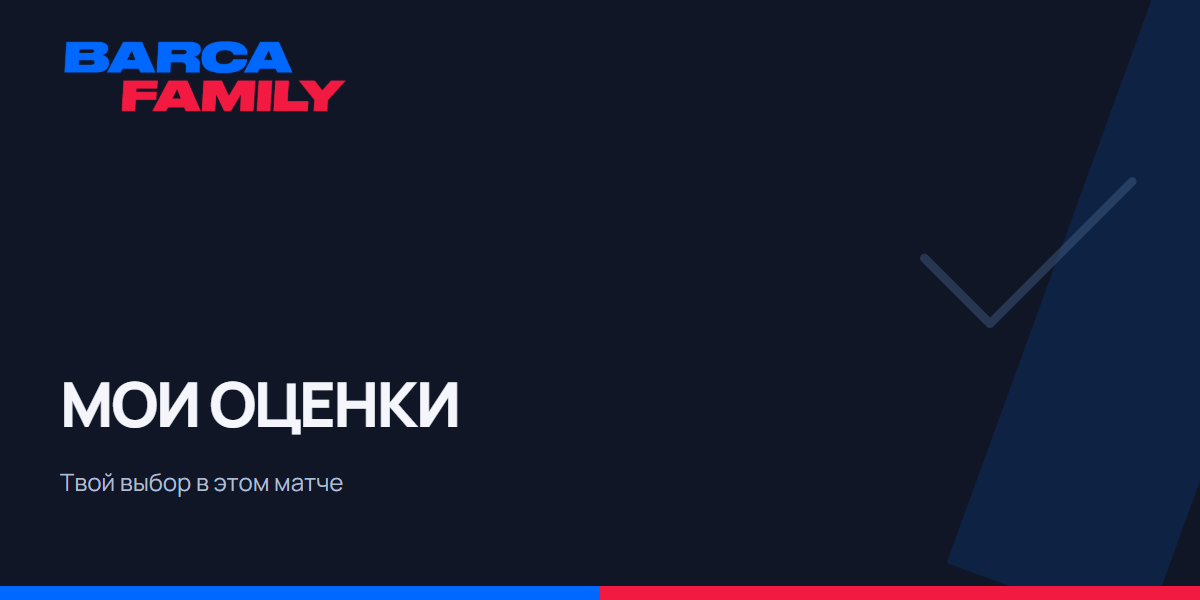
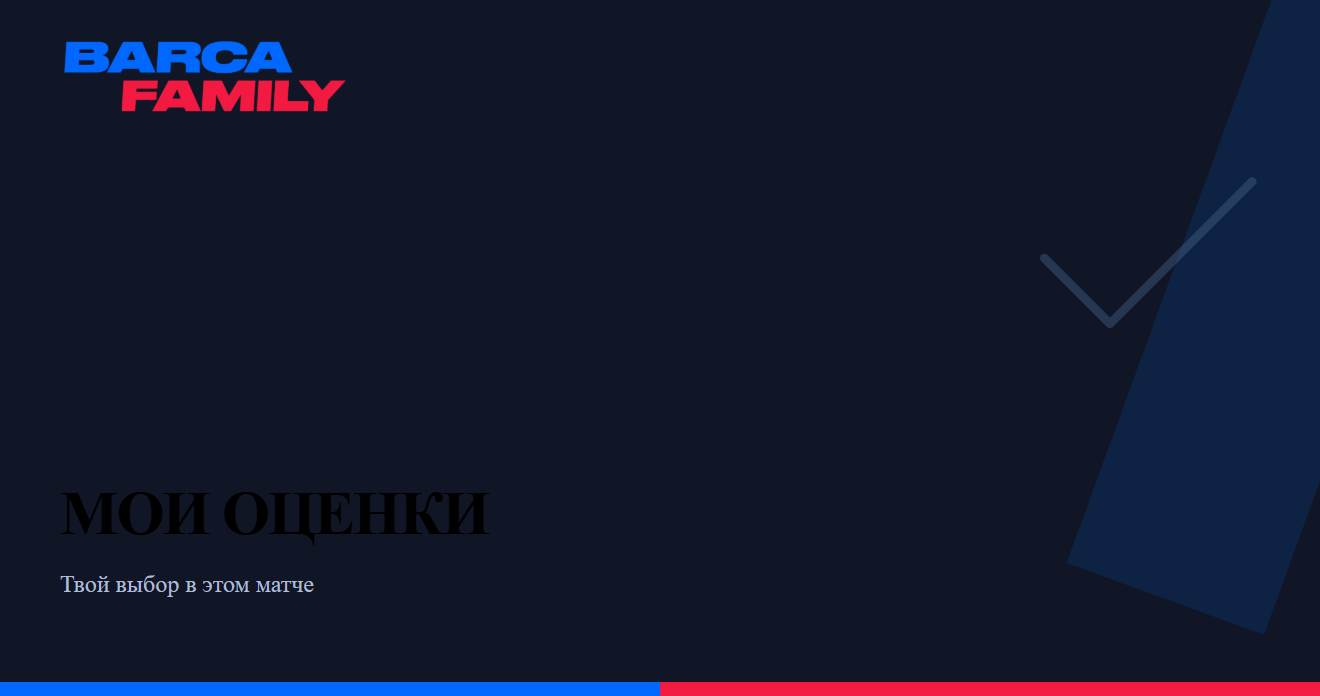
Connect distinct section covers to Telegram screens

diff --git a/public/covers/index.html b/public/covers/index.html
@@ -1,1 +1,1 @@
-<!doctype html><html lang="ru"><head><meta charset="utf-8"><link rel="stylesheet" href="/style.css"><style>body{margin:0}.cover{width:1200px;height:600px;background:#101625;position:relative;overflow:hidden;padding:48px 60px}.logo{position:absolute;width:290px;height:80px;overflow:hidden;left:60px;top:40px}.logo img{position:absolute;width:290px;top:-116px}.copy{position:absolute;left:60px;bottom:98px;z-index:2;width:830px}h1{font-size:62px;line-height:1.08;letter-spacing:-.035em;font-weight:800;max-width:850px;margin:0 0 24px}p{font-size:24px;color:#afbdd4;margin:0}.rails{position:absolute;bottom:0;left:0;right:0;display:flex;height:14px}.rails i{flex:1;background:#0068ff}.rails i:last-child{background:#f21a41}.symbol{position:absolute;right:0;top:105px;width:350px;height:350px;color:#405b82;opacity:.48}.accent{position:absolute;right:-70px;top:-80px;width:210px;height:700px;background:#0068ff;transform:rotate(20deg);opacity:.14}</style></head><body><section class="cover" id="home"><div class="accent"></div><div class="logo"><img src="/brand-original.png" alt="Barca Family"></div><svg class="symbol" viewBox="0 0 320 320" fill="none" stroke="currentColor" stroke-width="8" stroke-linecap="round" stroke-linejoin="round"><path d="m160 35 33 67 74 11-54 52 13 74-66-35-66 35 13-74-54-52 74-11z"/></svg><div class="copy"><h1>ОЦЕНКИ ИГРОКОВ</h1><p>После матчей Барселоны</p></div><div class="rails"><i></i><i></i></div></section><section class="cover" id="mine"><div class="accent"></div><div class="logo"><img src="/brand-original.png" alt="Barca Family"></div><svg class="symbol" viewBox="0 0 320 320" fill="none" stroke="currentColor" stroke-width="8" stroke-linecap="round" stroke-linejoin="round"><path d="m68 140 60 60L258 70"/></svg><div class="copy"><h1>МОИ ОЦЕНКИ</h1><p>Твой выбор в этом матче</p></div><div class="rails"><i></i><i></i></div></section><section class="cover" id="results"><div class="accent"></div><div class="logo"><img src="/brand-original.png" alt="Barca Family"></div><svg class="symbol" viewBox="0 0 320 320" fill="none" stroke="currentColor" stroke-width="8" stroke-linecap="round" stroke-linejoin="round"><path d="M55 245V145h45v100m40 0V70h45v175m40 0V110h45v135"/></svg><div class="copy"><h1>РЕЗУЛЬТАТ МАТЧА</h1><p>Как болельщики оценили игру</p></div><div class="rails"><i></i><i></i></div></section><section class="cover" id="season"><div class="accent"></div><div class="logo"><img src="/brand-original.png" alt="Barca Family"></div><svg class="symbol" viewBox="0 0 320 320" fill="none" stroke="currentColor" stroke-width="8" stroke-linecap="round" stroke-linejoin="round"><path d="M85 60h150v80c0 80-150 80-150 0zm75 145v60m-55 0h110M85 80H40v50c0 40 45 45 45 45m150-95h45v50c0 40-45 45-45 45"/></svg><div class="copy"><h1>РЕЙТИНГ ИГРОКОВ</h1><p>Средняя оценка и баллы за сезон</p></div><div class="rails"><i></i><i></i></div></section><section class="cover" id="viewers"><div class="accent"></div><div class="logo"><img src="/brand-original.png" alt="Barca Family"></div><svg class="symbol" viewBox="0 0 320 320" fill="none" stroke="currentColor" stroke-width="8" stroke-linecap="round" stroke-linejoin="round"><circle cx="160" cy="100" r="45"/><path d="M80 260v-35c0-80 160-80 160 0v35M45 180v-20m230 20v-20"/></svg><div class="copy"><h1>РЕЙТИНГ ЗРИТЕЛЕЙ</h1><p>Участие в голосованиях</p></div><div class="rails"><i></i><i></i></div></section><section class="cover" id="history"><div class="accent"></div><div class="logo"><img src="/brand-original.png" alt="Barca Family"></div><svg class="symbol" viewBox="0 0 320 320" fill="none" stroke="currentColor" stroke-width="8" stroke-linecap="round" stroke-linejoin="round"><circle cx="160" cy="160" r="110"/><path d="M160 85v80l55 30"/></svg><div class="copy"><h1>МОИ МАТЧИ</h1><p>Текущие и прошлые голосования</p></div><div class="rails"><i></i><i></i></div></section><section class="cover" id="admin"><div class="accent"></div><div class="logo"><img src="/brand-original.png" alt="Barca Family"></div><svg class="symbol" viewBox="0 0 320 320" fill="none" stroke="currentColor" stroke-width="8" stroke-linecap="round" stroke-linejoin="round"><path d="M60 80h200M60 160h200M60 240h200"/><circle cx="115" cy="80" r="20"/><circle cx="215" cy="160" r="20"/><circle cx="125" cy="240" r="20"/></svg><div class="copy"><h1>УПРАВЛЕНИЕ</h1><p>Матчи, составы и настройки</p></div><div class="rails"><i></i><i></i></div></section></body></html>
+<!doctype html><html lang="ru"><head><meta charset="utf-8"><link rel="stylesheet" href="/style.css"><style>body{margin:0}.cover{width:1200px;height:600px;background:#101625;position:relative;overflow:hidden;padding:48px 60px}.logo{position:absolute;width:290px;height:80px;overflow:hidden;left:60px;top:40px}.logo img{position:absolute;width:290px;top:-116px}.copy{position:absolute;left:60px;bottom:98px;z-index:2;width:830px}h1{font-size:62px;line-height:1.08;letter-spacing:-.035em;font-weight:800;max-width:850px;margin:0 0 24px}p{font-size:24px;color:#afbdd4;margin:0}.rails{position:absolute;bottom:0;left:0;right:0;display:flex;height:14px}.rails i{flex:1;background:#0068ff}.rails i:last-child{background:#f21a41}.symbol{position:absolute;right:0;top:105px;width:350px;height:350px;color:#405b82;opacity:.48}.accent{position:absolute;right:-70px;top:-80px;width:210px;height:700px;background:#0068ff;transform:rotate(20deg);opacity:.14}</style></head><body><section class="cover" id="home"><div class="accent"></div><div class="logo"><img src="/brand-original.png" alt="Barca Family"></div><svg class="symbol" viewBox="0 0 320 320" fill="none" stroke="currentColor" stroke-width="8" stroke-linecap="round" stroke-linejoin="round"><path d="m160 35 33 67 74 11-54 52 13 74-66-35-66 35 13-74-54-52 74-11z"/></svg><div class="copy"><h1>ОЦЕНКИ ИГРОКОВ</h1><p>После матчей Барселоны</p></div><div class="rails"><i></i><i></i></div></section><section class="cover" id="mine"><div class="accent"></div><div class="logo"><img src="/brand-original.png" alt="Barca Family"></div><svg class="symbol" viewBox="0 0 320 320" fill="none" stroke="currentColor" stroke-width="8" stroke-linecap="round" stroke-linejoin="round"><path d="m68 140 60 60L258 70"/></svg><div class="copy"><h1>МОИ ОЦЕНКИ</h1><p>Твой выбор в этом матче</p></div><div class="rails"><i></i><i></i></div></section><section class="cover" id="results"><div class="accent"></div><div class="logo"><img src="/brand-original.png" alt="Barca Family"></div><svg class="symbol" viewBox="0 0 320 320" fill="none" stroke="currentColor" stroke-width="8" stroke-linecap="round" stroke-linejoin="round"><path d="M55 245V145h45v100m40 0V70h45v175m40 0V110h45v135"/></svg><div class="copy"><h1>РЕЗУЛЬТАТ МАТЧА</h1><p>Как болельщики оценили игру</p></div><div class="rails"><i></i><i></i></div></section><section class="cover" id="season"><div class="accent"></div><div class="logo"><img src="/brand-original.png" alt="Barca Family"></div><svg class="symbol" viewBox="0 0 320 320" fill="none" stroke="currentColor" stroke-width="8" stroke-linecap="round" stroke-linejoin="round"><path d="M85 60h150v80c0 80-150 80-150 0zm75 145v60m-55 0h110M85 80H40v50c0 40 45 45 45 45m150-95h45v50c0 40-45 45-45 45"/></svg><div class="copy"><h1>РЕЙТИНГ ИГРОКОВ</h1><p>Средняя оценка за сезон</p></div><div class="rails"><i></i><i></i></div></section><section class="cover" id="viewers"><div class="accent"></div><div class="logo"><img src="/brand-original.png" alt="Barca Family"></div><svg class="symbol" viewBox="0 0 320 320" fill="none" stroke="currentColor" stroke-width="8" stroke-linecap="round" stroke-linejoin="round"><circle cx="160" cy="100" r="45"/><path d="M80 260v-35c0-80 160-80 160 0v35M45 180v-20m230 20v-20"/></svg><div class="copy"><h1>РЕЙТИНГ ЗРИТЕЛЕЙ</h1><p>Участие в голосованиях</p></div><div class="rails"><i></i><i></i></div></section><section class="cover" id="history"><div class="accent"></div><div class="logo"><img src="/brand-original.png" alt="Barca Family"></div><svg class="symbol" viewBox="0 0 320 320" fill="none" stroke="currentColor" stroke-width="8" stroke-linecap="round" stroke-linejoin="round"><circle cx="160" cy="160" r="110"/><path d="M160 85v80l55 30"/></svg><div class="copy"><h1>ВЫБОР МАТЧА</h1><p>Текущие и прошлые голосования</p></div><div class="rails"><i></i><i></i></div></section><section class="cover" id="admin"><div class="accent"></div><div class="logo"><img src="/brand-original.png" alt="Barca Family"></div><svg class="symbol" viewBox="0 0 320 320" fill="none" stroke="currentColor" stroke-width="8" stroke-linecap="round" stroke-linejoin="round"><path d="M60 80h200M60 160h200M60 240h200"/><circle cx="115" cy="80" r="20"/><circle cx="215" cy="160" r="20"/><circle cx="125" cy="240" r="20"/></svg><div class="copy"><h1>УПРАВЛЕНИЕ</h1><p>Матчи, составы и настройки</p></div><div class="rails"><i></i><i></i></div></section></body></html>
